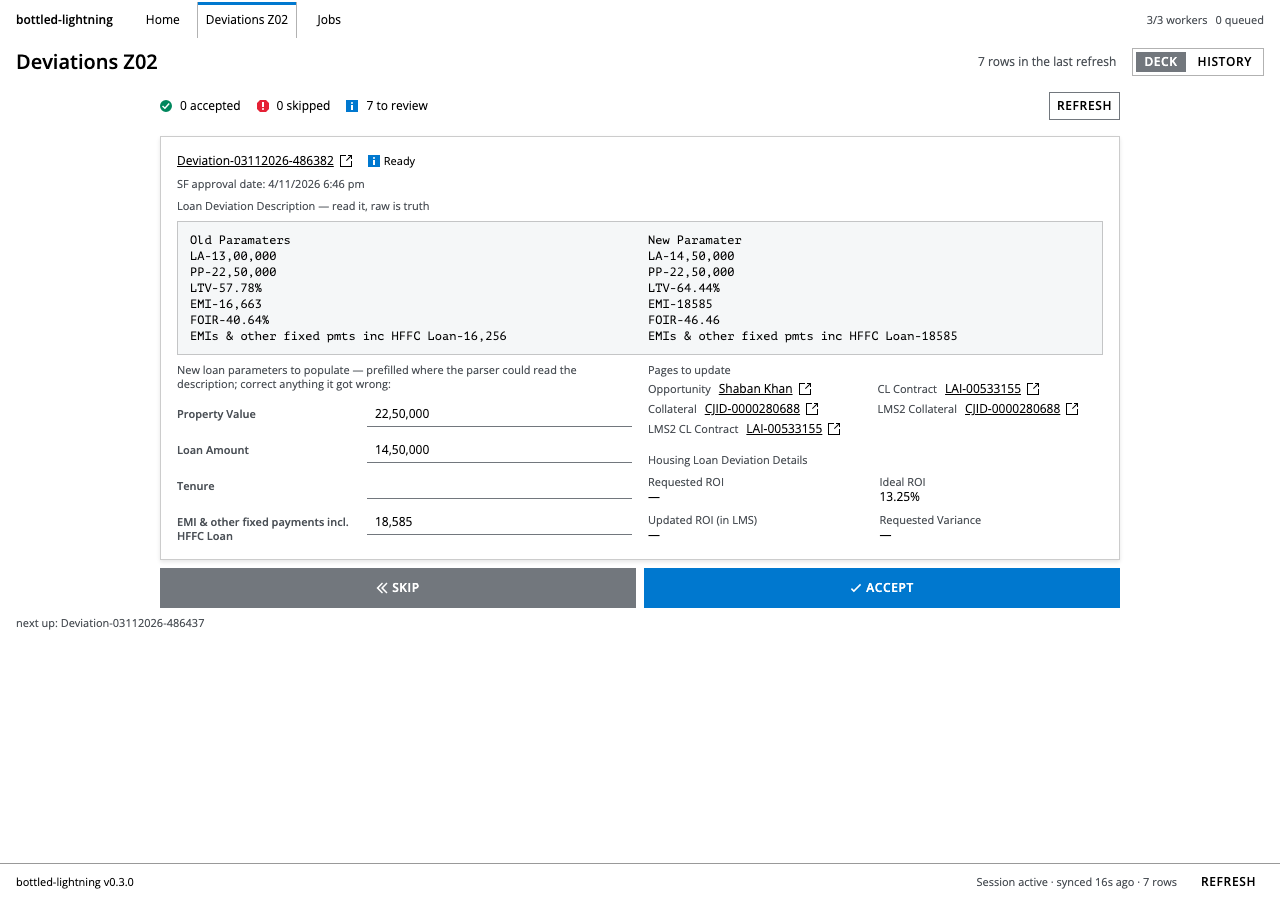
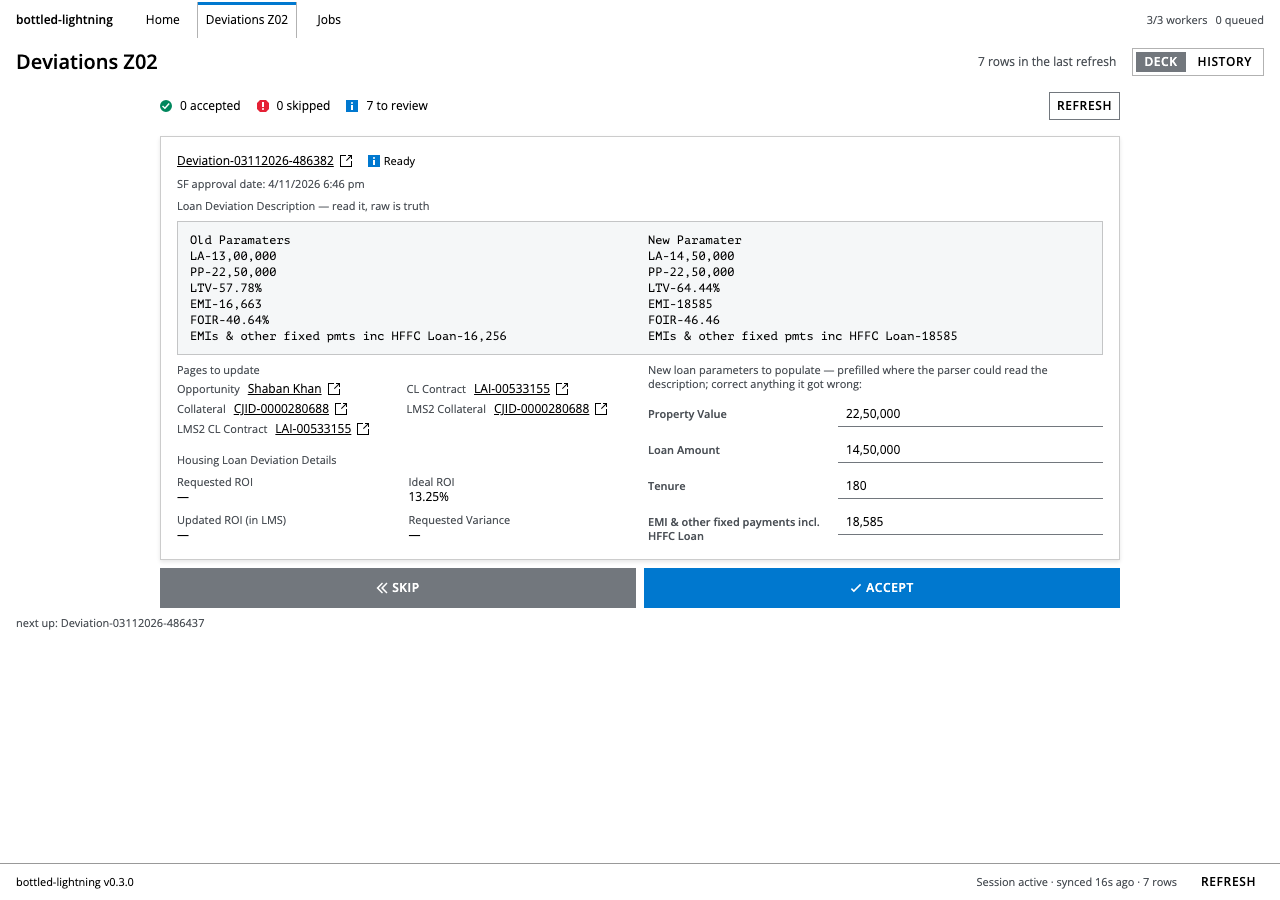
Swap the deck's lower grid: read-only left, editable values right
Approved option B: the description stays full width on top; below it Pages to
update + ROI move to the left column and the four editable fields to the right.
Skip/Accept remain full-width under the card. On narrow screens the card stacks
description -> read-only -> editable.

The outer grid uses explicit 1fr/1fr columns so the editable side keeps enough
width; refs stay two columns inside the read-only side. Measured all seven cards
at 1280x800: each document height is 800 (no page scroll).

diff --git a/frontend/src/components/DecisionCard.tsx b/frontend/src/components/DecisionCard.tsx
@@ -179,35 +179,7 @@ export function DecisionCard({
             )}
           </Card>
 
-          <GridLayout columns={{ xs: 1, lg: 2 }} gap={2}>
-            <StackLayout gap={1}>
-              <Text color="secondary" styleAs="label">
-                New loan parameters to populate — prefilled where the parser could read the
-                description; correct anything it got wrong:
-              </Text>
-              <StackLayout gap={1}>
-                {ordered.map((field) => (
-                  <FormField key={field.key} labelPlacement="left">
-                    <FormFieldLabel>{field.label}</FormFieldLabel>
-                    <Input
-                      value={draftDisplay(field, values[field.key] ?? '')}
-                      inputProps={{
-                        inputMode: field.valueType === 'text' ? undefined : 'numeric',
-                        'aria-label': field.label,
-                        onChange: (event) => {
-                          const raw = event.target.value
-                          onField(
-                            field.key,
-                            field.valueType === 'text' ? raw : raw.replace(/[^\d]/g, ''),
-                          )
-                        },
-                      }}
-                    />
-                  </FormField>
-                ))}
-              </StackLayout>
-            </StackLayout>
-
+          <GridLayout columns={{ xs: 1, lg: "1fr 1fr" }} gap={2}>
             <StackLayout gap={2}>
               {refs.length > 0 ? (
                 <StackLayout gap={0.5}>
@@ -243,6 +215,34 @@ export function DecisionCard({
                     </StackLayout>
                   ))}
                 </GridLayout>
+              </StackLayout>
+            </StackLayout>
+
+            <StackLayout gap={1}>
+              <Text color="secondary" styleAs="label">
+                New loan parameters to populate — prefilled where the parser could read the
+                description; correct anything it got wrong:
+              </Text>
+              <StackLayout gap={1}>
+                {ordered.map((field) => (
+                  <FormField key={field.key} labelPlacement="left">
+                    <FormFieldLabel>{field.label}</FormFieldLabel>
+                    <Input
+                      value={draftDisplay(field, values[field.key] ?? '')}
+                      inputProps={{
+                        inputMode: field.valueType === 'text' ? undefined : 'numeric',
+                        'aria-label': field.label,
+                        onChange: (event) => {
+                          const raw = event.target.value
+                          onField(
+                            field.key,
+                            field.valueType === 'text' ? raw : raw.replace(/[^\d]/g, ''),
+                          )
+                        },
+                      }}
+                    />
+                  </FormField>
+                ))}
               </StackLayout>
             </StackLayout>
           </GridLayout>

diff --git a/docs/frontend-design-deviations.md b/docs/frontend-design-deviations.md
@@ -3,7 +3,7 @@
 | | |
 |---|---|
 | **Status** | Draft for review |
-| **Version** | v3.6 |
+| **Version** | v3.7 |
 | **Date** | 2026-11-04 |
 | **Feature** | Loan deviations (Z02) |
 | **Companions** | `docs/FR-deviations.md`, `docs/api-deviations.md`, `docs/refactor-plan-deviations.md` |
@@ -112,6 +112,10 @@ accepted/skipped/to-review tallies, then Skip and Accept. The header keeps the
 | leaving | card slides out right (accept) or left (skip) for 420 ms | — |
 | complete | `Deck complete 🎉`, accepted/skipped counts, **Replay skipped**, Refresh | undo all skips |
 | paused session | deck still usable (decisions + proposals are local) + global auth banner | Skip, Accept |
+
+Below the description the card splits into **read-only data on the left** (Pages to
+update, ROI) and the **four editable values on the right**; Skip/Accept span the card.
+On narrow screens the card stacks in that order: description, read-only, editable.
 
 Card order: newest `last_seen` first, the same order as the list. "next up: <key>" names
 the card behind the top one. **Accept** PATCHes the card's cleaned values as proposals
